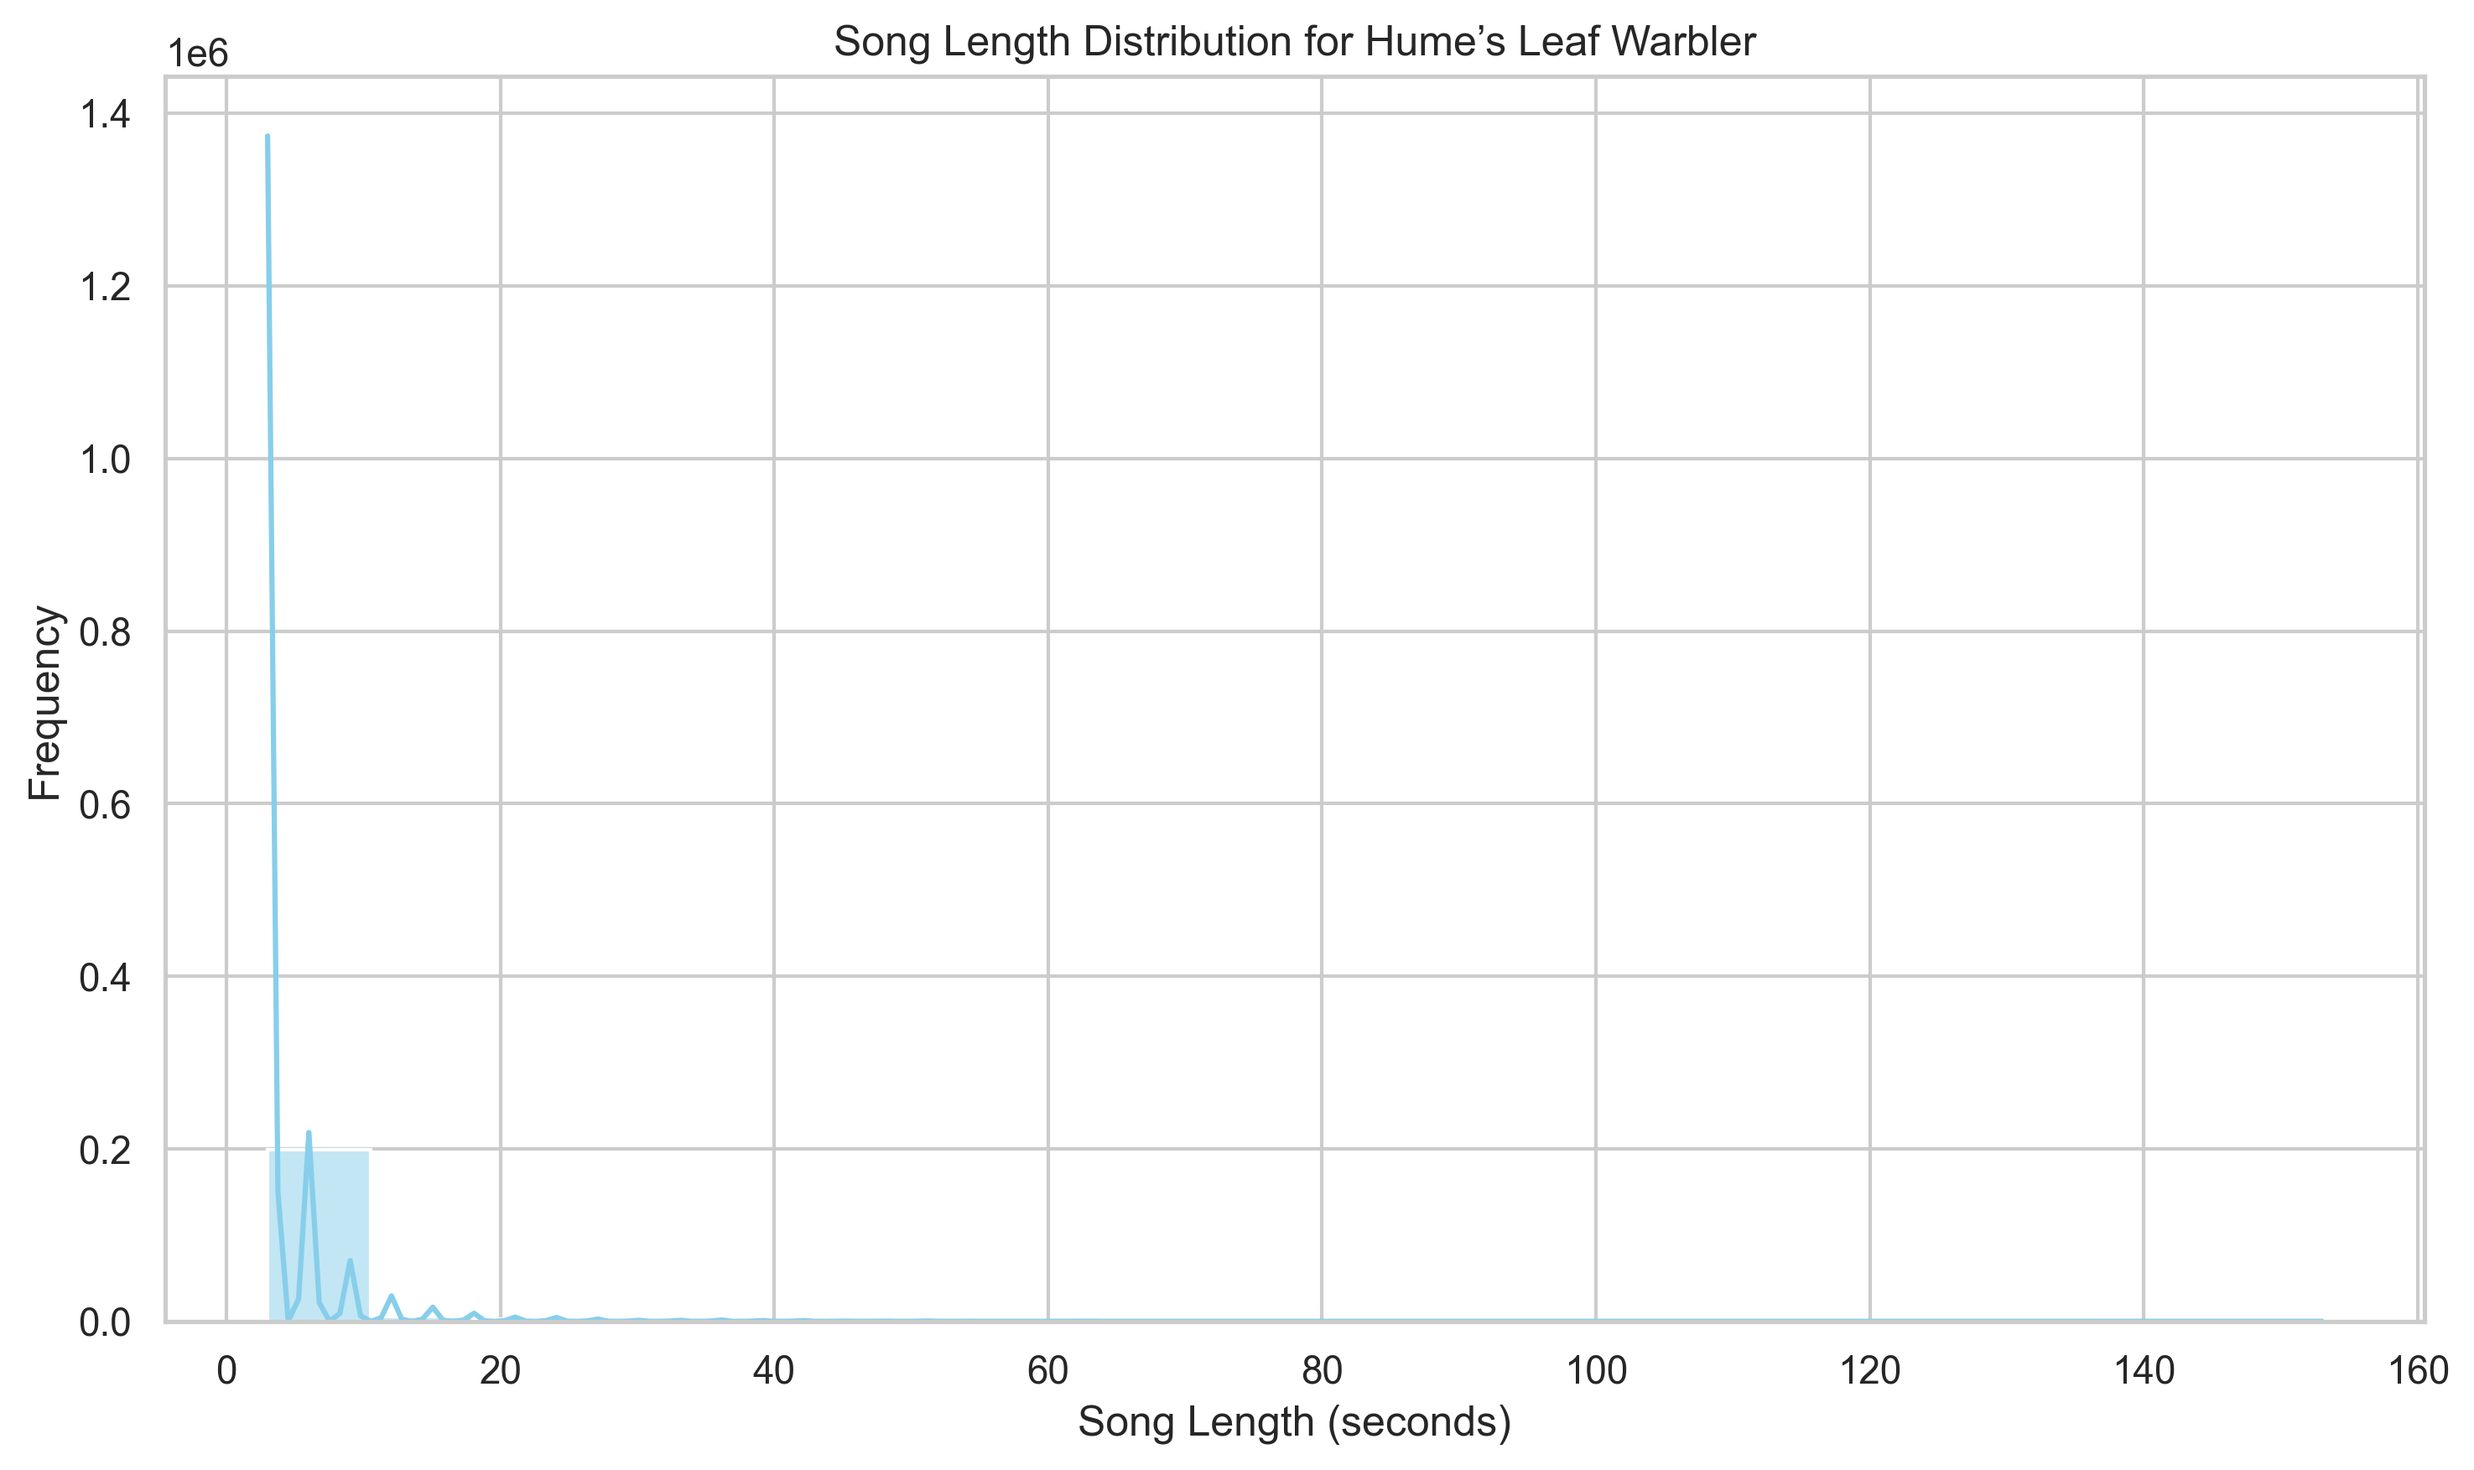
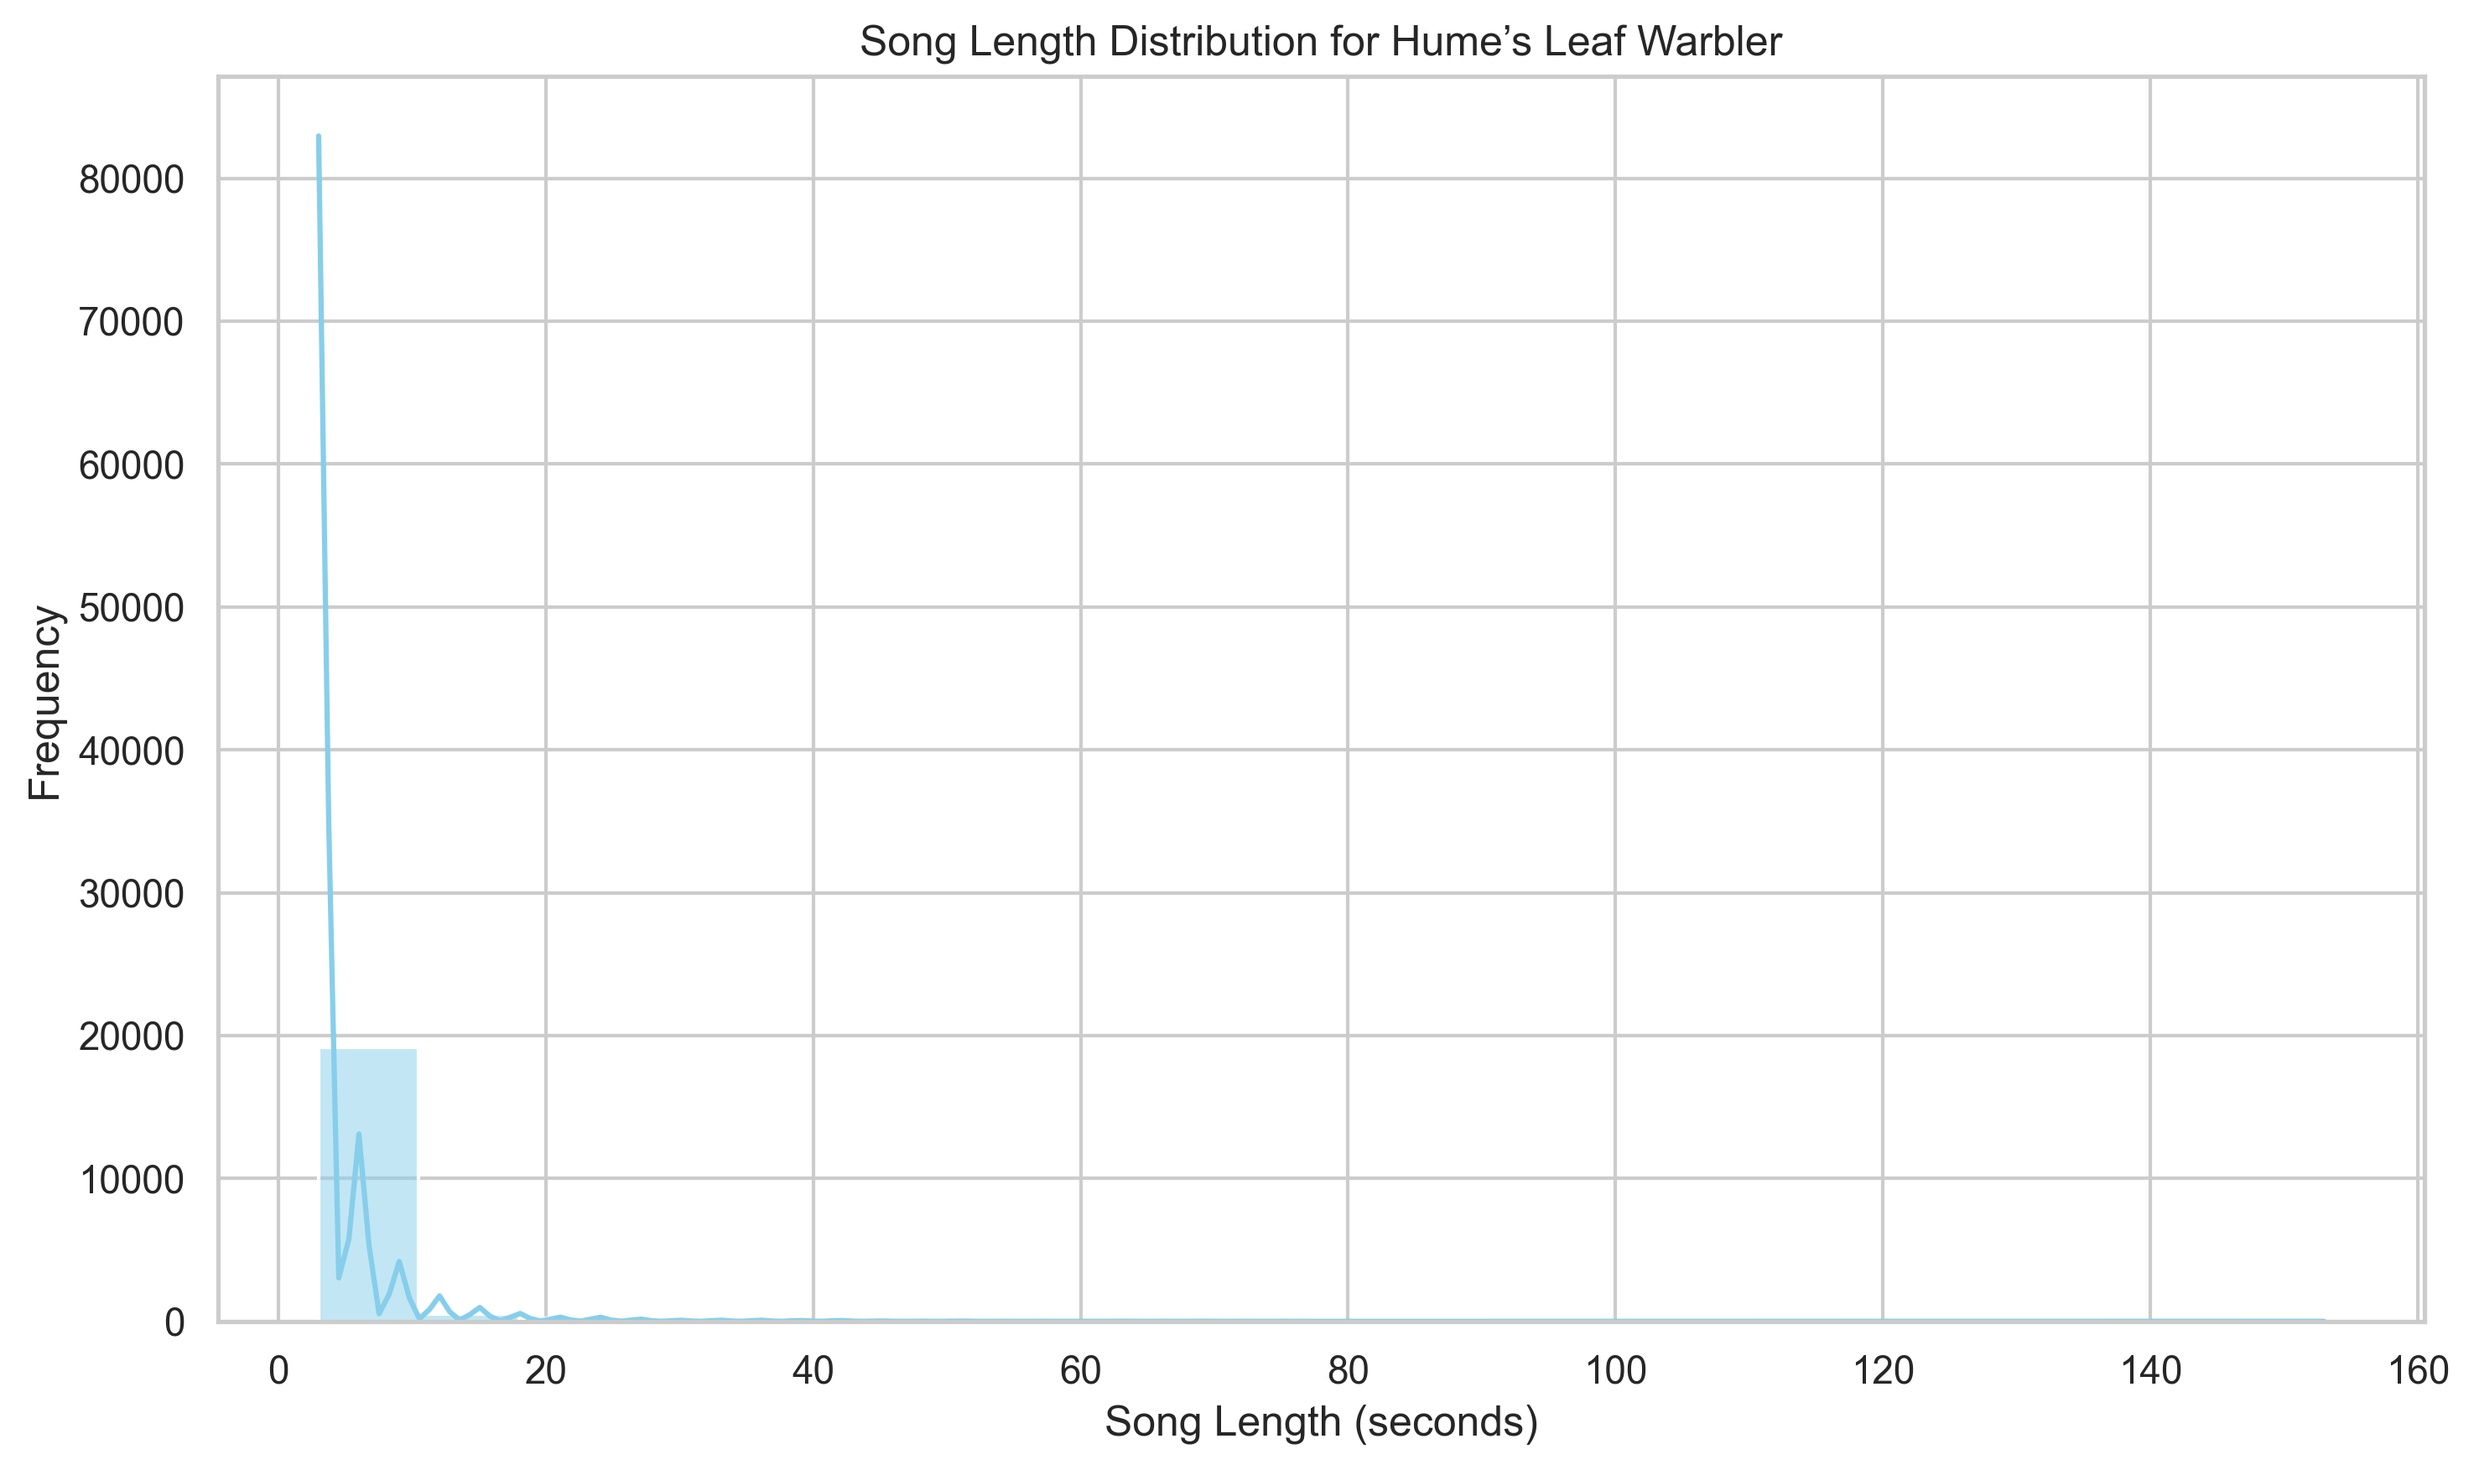
analysis with updated data

diff --git a/vanessa_analysis.py b/vanessa_analysis.py
@@ -4,75 +4,75 @@ import numpy as np
 import seaborn as sns
 import os
 
-df = pd.read_csv("data/merged_05.csv")
+df = pd.read_csv("data/data_20250330.csv")
 
-# # - SPECIES DISTRIBUTION ANALYSIS - #
+# - SPECIES DISTRIBUTION ANALYSIS - #
 
-# species_counts1 = df["Common name"].value_counts().head(30)
+species_counts1 = df["Common name"].value_counts().head(30)
 
-# # Create plot for 0.5 Confidence Level
-# plt.figure(figsize=(12, 6))
-# species_counts1.plot(kind="bar", color="royalblue", edgecolor="black")
-# plt.xlabel("Species")
-# plt.ylabel("Number of Unique Detections")
-# plt.title("Top 30 Bird Species Distribution in 0.5 Confidence Dataset")
-# plt.xticks(rotation=45, ha="right")
-# plt.subplots_adjust(bottom=0.45)
-# plt.savefig("vanessa_plots/0.5_species_distribution.png", bbox_inches="tight", dpi=300)
-# plt.show()
-
-
-# # # - HUME'S LEAF WARBLER ACTIVITY OVER TIME - #
-
-# # Filter only Hume's Leaf Warbler
-# df_hume = df[df["Common name"] == "phylloscopus humei"]
-
-# # Count occurrences of detections per hour and sort
-# time_counts = df_hume["Time"].value_counts().sort_index()
-
-# # Create the plot for 0.5 Confidence Level
-# plt.figure(figsize=(10, 5))
-# plt.plot(time_counts.index, time_counts.values, marker="o", linestyle="-", color="royalblue")
-# plt.xlabel("Time of Day (Hour)")
-# plt.ylabel("Number of Unique Hume's Leaf Warbler Detections")
-# plt.title("Hume's Leaf Warbler Activity Over Time - 0.5 Confidence")
-# plt.grid()
-# plt.savefig("vanessa_plots/0.5_humes_warbler_activity_over_time.png", bbox_inches="tight", dpi=300)
-# plt.show()
+# Create plot for 0.5 Confidence Level
+plt.figure(figsize=(12, 6))
+species_counts1.plot(kind="bar", color="royalblue", edgecolor="black")
+plt.xlabel("Species")
+plt.ylabel("Number of Unique Detections")
+plt.title("Top 30 Bird Species Distribution in 0.5 Confidence Dataset")
+plt.xticks(rotation=45, ha="right")
+plt.subplots_adjust(bottom=0.45)
+plt.savefig("vanessa_plots/0.5_species_distribution.png", bbox_inches="tight", dpi=300)
+plt.show()
 
 
-# # # - ELEVATION VS SPECIES - #
+# - HUME'S LEAF WARBLER ACTIVITY OVER TIME - #
 
-# # Get the top 30 most frequent species
-# df_filtered = df[df["Common name"].isin(species_counts1.index)]
+# Filter only Hume's Leaf Warbler
+df_hume = df[df["Common name"] == "hume's warbler"]
 
-# # Create plot for 0.5 Confidence Level
-# plt.figure(figsize=(12, 6))
-# sns.scatterplot(x="Common name", y="Elevation", hue="Common name", data=df_filtered, alpha=0.7, palette="tab20", legend=False)
-# plt.xticks(rotation=90)
-# plt.xlabel("Species")
-# plt.ylabel("Elevation (m)")
-# plt.title("Elevation Distribution of the 30 Most Frequent Bird Species - 0.5 Confidence")
-# plt.subplots_adjust(bottom=0.47)
-# plt.savefig("vanessa_plots/0.5_top_species_elevation_scatter.png", bbox_inches="tight", dpi=300)
-# plt.show()
+# Count occurrences of detections per hour and sort
+time_counts = df_hume["Time"].value_counts().sort_index()
 
-
-# # # - LOCAL VS UNEXPECTANT SPECIES - #
-
-# # Count occurrences of local vs. unexpected species
-# habitant_counts = df["Habitant"].value_counts()
-
-# # Create plot for 0.5 Confidence Level
-# labels1 = ["Local Species" if i == 1 else "Unexpected Species" for i in habitant_counts.index]
-# plt.figure(figsize=(6, 6))
-# plt.pie(habitant_counts, labels=labels1, autopct="%1.1f%%", colors=["green", "red"], startangle=140)
-# plt.title("Proportion of Local vs. Unexpected Species - 0.5 Confidence")
-# plt.savefig("vanessa_plots/0.5_local_vs_unexpected_species.png", bbox_inches="tight", dpi=300)
-# plt.show()
+# Create the plot for 0.5 Confidence Level
+plt.figure(figsize=(10, 5))
+plt.plot(time_counts.index, time_counts.values, marker="o", linestyle="-", color="royalblue")
+plt.xlabel("Time of Day (Hour)")
+plt.ylabel("Number of Unique Hume's Leaf Warbler Detections")
+plt.title("Hume's Leaf Warbler Activity Over Time - 0.5 Confidence")
+plt.grid()
+plt.savefig("vanessa_plots/0.5_humes_warbler_activity_over_time.png", bbox_inches="tight", dpi=300)
+plt.show()
 
 
-# # - AVERAGE SONG LENGTH FOR TOP 30 SPECIES - #
+# - ELEVATION VS SPECIES - #
+
+# Get the top 30 most frequent species
+df_filtered = df[df["Common name"].isin(species_counts1.index)]
+
+# Create plot for 0.5 Confidence Level
+plt.figure(figsize=(12, 6))
+sns.scatterplot(x="Common name", y="Elevation", hue="Common name", data=df_filtered, alpha=0.7, palette="tab20", legend=False)
+plt.xticks(rotation=90)
+plt.xlabel("Species")
+plt.ylabel("Elevation (m)")
+plt.title("Elevation Distribution of the 30 Most Frequent Bird Species - 0.5 Confidence")
+plt.subplots_adjust(bottom=0.47)
+plt.savefig("vanessa_plots/0.5_top_species_elevation_scatter.png", bbox_inches="tight", dpi=300)
+plt.show()
+
+
+# - LOCAL VS UNEXPECTANT SPECIES - #
+
+# Count occurrences of local vs. unexpected species
+habitant_counts = df["Habitant"].value_counts()
+
+# Create plot for 0.5 Confidence Level
+labels1 = ["Local Species" if i == 1 else "Unexpected Species" for i in habitant_counts.index]
+plt.figure(figsize=(6, 6))
+plt.pie(habitant_counts, labels=labels1, autopct="%1.1f%%", colors=["green", "red"], startangle=140)
+plt.title("Proportion of Local vs. Unexpected Species - 0.5 Confidence")
+plt.savefig("vanessa_plots/0.5_local_vs_unexpected_species.png", bbox_inches="tight", dpi=300)
+plt.show()
+
+
+# - AVERAGE SONG LENGTH FOR TOP 30 SPECIES - #
 
 # Get the top 30 most detected species
 top_species = df["Common name"].value_counts().head(30).index
@@ -122,7 +122,7 @@ sns.set(style="whitegrid")
 
 # Plot: Average Song Length for Top 30 Species
 plt.figure(figsize=(12, 8))
-sns.barplot(data=avg_song_lengths, x="Song Length", y="Common name", palette="viridis")
+sns.barplot(data=avg_song_lengths, x="Song Length", y="Common name", hue="Common name", palette="viridis", dodge=False, legend=False)
 plt.title("Average Song Length for Top 30 Bird Species")
 plt.xlabel("Average Song Length (seconds)")
 plt.ylabel("Bird Species")
@@ -133,7 +133,7 @@ plt.show()
 # - AVERAGE SONG LENGTH FOR HUME'S LEAF WARBLER - #
 
 # Filter for Hume's Leaf Warbler
-df_hume = df[df["Common name"] == "phylloscopus humei"]
+df_hume = df[df["Common name"] == "hume's warbler"]
 
 # Initialize variables for song length calculation
 song_lengths_hume = []
@@ -175,42 +175,42 @@ plt.tight_layout()
 plt.savefig("vanessa_plots/0.5_avg_song_length_humes_warbler.png", bbox_inches="tight", dpi=300)
 plt.show()
 
-# # - THRESHOLD ANALYSIS - #
+# - THRESHOLD ANALYSIS - #
 
-# confidence_thresholds = np.arange(0.5, 1.05, 0.05)
-# results = []
+confidence_thresholds = np.arange(0.5, 1.05, 0.05)
+results = []
 
-# for threshold in confidence_thresholds:
-#     retrieved = df[df["Confidence"] >= threshold]
+for threshold in confidence_thresholds:
+    retrieved = df[df["Confidence"] >= threshold]
 
-#     total_samples = len(retrieved)
-#     if total_samples == 0:
-#         continue
+    total_samples = len(retrieved)
+    if total_samples == 0:
+        continue
 
-#     expected_species_pct = (len(retrieved[retrieved["Habitant"] == 1]) / total_samples) * 100
-#     unexpected_species_pct = (len(retrieved[retrieved["Habitant"] == 0]) / total_samples) * 100
-#     hlw_pct = (len(retrieved[retrieved["Common name"] == "phylloscopus humei"]) / total_samples) * 100
+    expected_species_pct = (len(retrieved[retrieved["Habitant"] == 1]) / total_samples) * 100
+    unexpected_species_pct = (len(retrieved[retrieved["Habitant"] == 0]) / total_samples) * 100
+    hlw_pct = (len(retrieved[retrieved["Common name"] == "hume's warbler"]) / total_samples) * 100
 
-#     results.append({
-#         "Confidence Threshold": threshold,
-#         "Expected Species (%)": expected_species_pct,
-#         "Unexpected Species (%)": unexpected_species_pct,
-#         "Hume's Leaf Warbler (%)": hlw_pct
-#     })
+    results.append({
+        "Confidence Threshold": threshold,
+        "Expected Species (%)": expected_species_pct,
+        "Unexpected Species (%)": unexpected_species_pct,
+        "Hume's Leaf Warbler (%)": hlw_pct
+    })
 
-# # Create plot for 0.5 Confidence Level (includes data with 0.5 confidence and above)
-# results_df = pd.DataFrame(results)
-# plt.figure(figsize=(10, 6))
+# Create plot for 0.5 Confidence Level (includes data with 0.5 confidence and above)
+results_df = pd.DataFrame(results)
+plt.figure(figsize=(10, 6))
 
-# # Plot trends (percentages)
-# sns.lineplot(data=results_df, x="Confidence Threshold", y="Expected Species (%)", label="Expected Species (%)", marker="s", linestyle="-")
-# sns.lineplot(data=results_df, x="Confidence Threshold", y="Unexpected Species (%)", label="Unexpected Species (%)", marker="^", linestyle="-.")
-# sns.lineplot(data=results_df, x="Confidence Threshold", y="Hume's Leaf Warbler (%)", label="Hume's Leaf Warbler (%)", marker="d", linestyle=":")
+# Plot trends (percentages)
+sns.lineplot(data=results_df, x="Confidence Threshold", y="Expected Species (%)", label="Expected Species (%)", marker="s", linestyle="-")
+sns.lineplot(data=results_df, x="Confidence Threshold", y="Unexpected Species (%)", label="Unexpected Species (%)", marker="^", linestyle="-.")
+sns.lineplot(data=results_df, x="Confidence Threshold", y="Hume's Leaf Warbler (%)", label="Hume's Leaf Warbler (%)", marker="d", linestyle=":")
 
-# plt.xlabel("Confidence Threshold")
-# plt.ylabel("Percentage (%)")
-# plt.title("BirdNet Confidence Threshold Analysis (0.5 Confidence Data) - Percentage")
-# plt.grid(True)
-# plt.legend()
-# plt.savefig("vanessa_plots/threshold_analysis.png", bbox_inches="tight", dpi=300)
-# plt.show()
+plt.xlabel("Confidence Threshold")
+plt.ylabel("Percentage (%)")
+plt.title("BirdNet Confidence Threshold Analysis (0.5 Confidence Data) - Percentage")
+plt.grid(True)
+plt.legend()
+plt.savefig("vanessa_plots/threshold_analysis.png", bbox_inches="tight", dpi=300)
+plt.show()
